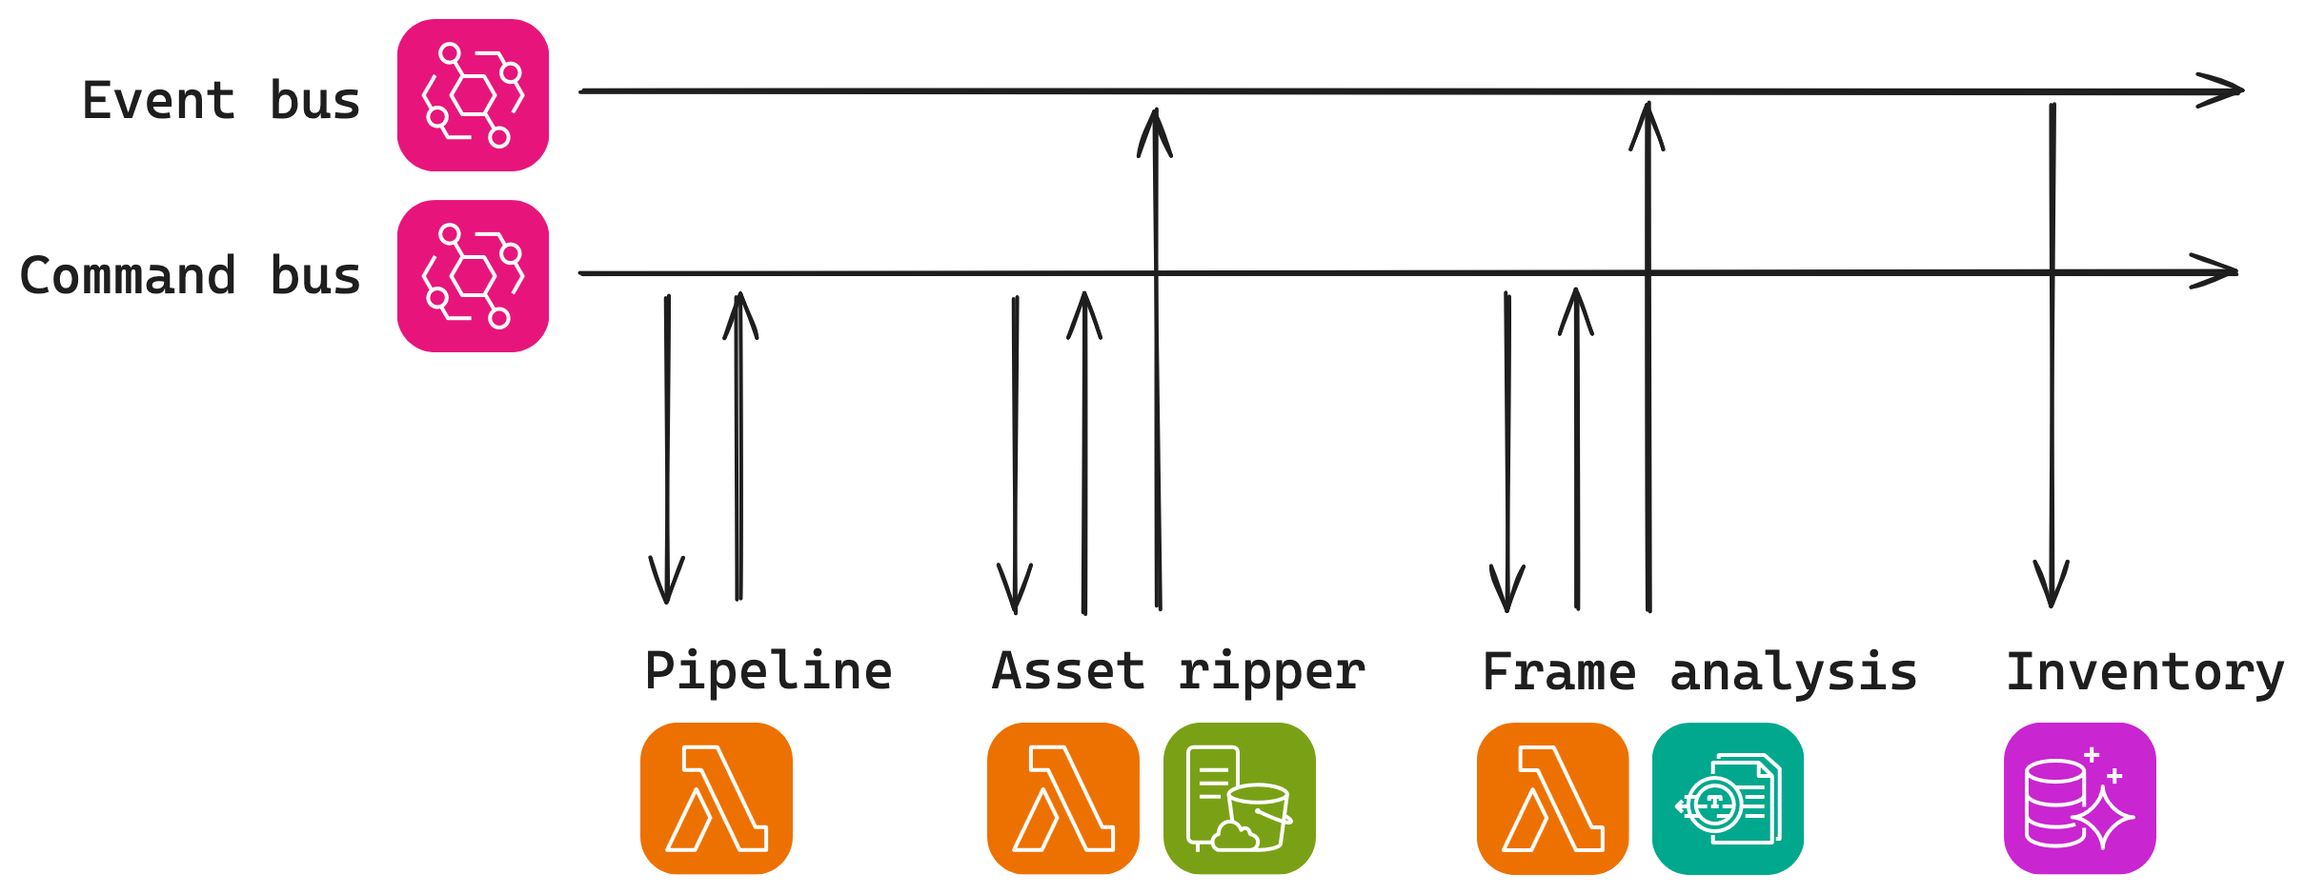
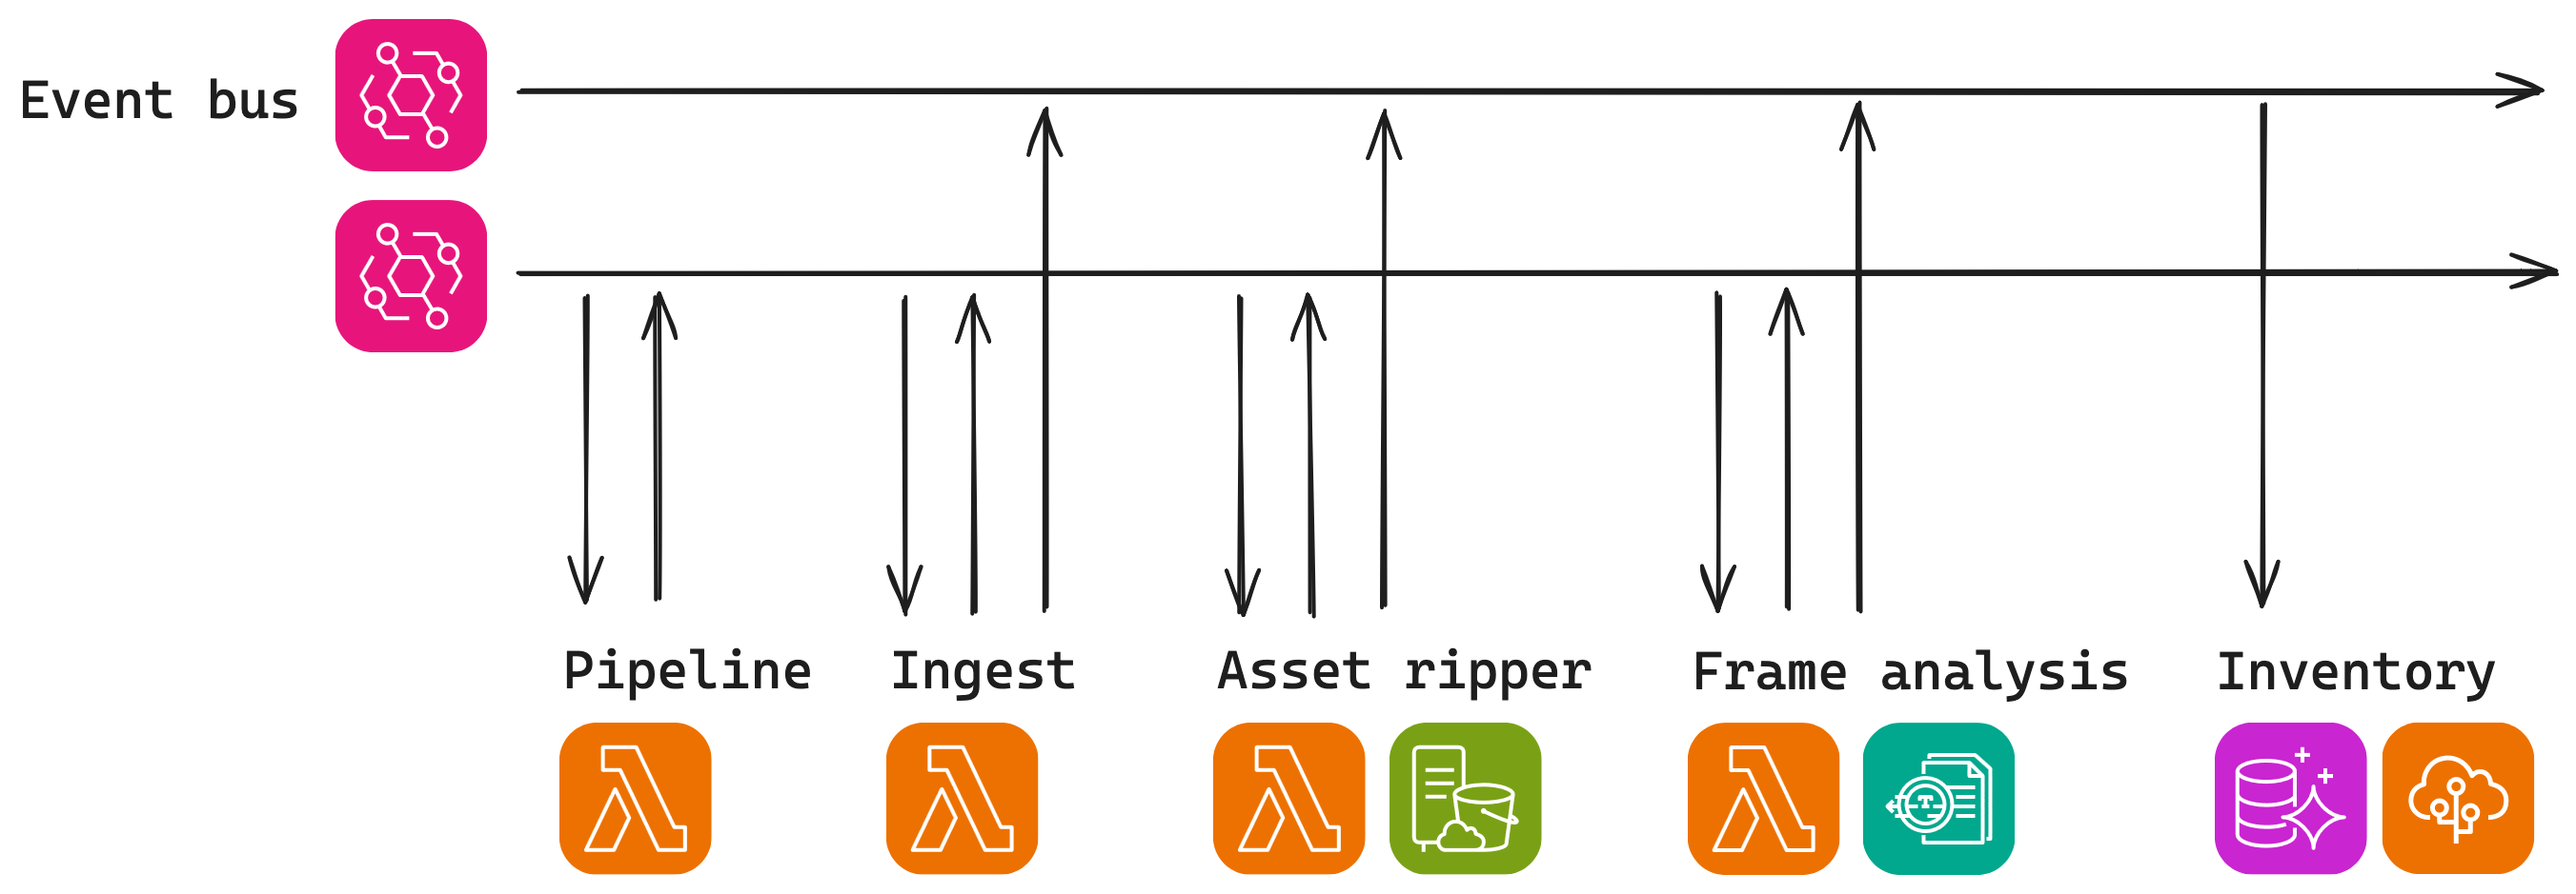
Get a working version of the API deployed to beanstalk

diff --git a/infra/lib/InventoryStack.ts b/infra/lib/InventoryStack.ts
@@ -2,12 +2,17 @@ import { Stack, StackProps, Tags } from "aws-cdk-lib";
 import { Construct } from "constructs";
 import * as dynamo from "aws-cdk-lib/aws-dynamodb";
 import { AttributeType, BillingMode, ProjectionType } from "aws-cdk-lib/aws-dynamodb";
+import * as bs from "aws-cdk-lib/aws-elasticbeanstalk";
 import { Attribute } from "aws-cdk-lib/aws-dynamodb/lib/shared";
 import * as path from "path";
 import { EventBusAware } from "./EventBusStack";
 import { createProjectionHandlerLambda } from "./utility/projection";
+import { DeploymentEnvironmentAware } from "./utility/deployment-environment";
+import * as iam from "aws-cdk-lib/aws-iam";
+import { AnyPrincipal } from "aws-cdk-lib/aws-iam";
+import { Asset } from "aws-cdk-lib/aws-s3-assets";
 
-type InventoryStackProps = StackProps & EventBusAware;
+type InventoryStackProps = StackProps & EventBusAware & DeploymentEnvironmentAware;
 
 export class InventoryStack extends Stack {
     private props: InventoryStackProps;
@@ -21,6 +26,7 @@ export class InventoryStack extends Stack {
 
         this.createDynamoTable();
         this.createProjectionHandlerLambda();
+        this.createApiEndpoint();
 
         Tags.of(this).add("ServiceName", "Inventory");
     }
@@ -57,6 +63,79 @@ export class InventoryStack extends Stack {
             partitionKey: this.stringAttribute("gsi2pk"),
             sortKey: this.stringAttribute("gsi2sk"),
         });
+    }
+
+    createApiEndpoint() {
+        const appName = "InventoryAppApi";
+
+        const api = new bs.CfnApplication(this, "inventory-app", {
+            applicationName: appName,
+        });
+
+        const sourceCode = new Asset(this, "inventory-src", {
+            path: this.resolveService("build/build.zip"),
+        });
+
+        const version = new bs.CfnApplicationVersion(this, "inventory-app-version", {
+            applicationName: api.applicationName || appName,
+            sourceBundle: {
+                s3Bucket: sourceCode.s3BucketName,
+                s3Key: sourceCode.s3ObjectKey,
+            },
+        });
+        version.addDependency(api);
+
+        const role = new iam.Role(this, `inventory-app-instance-profile-role`, {
+            assumedBy: new AnyPrincipal(),
+        });
+        role.addManagedPolicy(iam.ManagedPolicy.fromAwsManagedPolicyName("AWSElasticBeanstalkWebTier"));
+        role.addManagedPolicy(iam.ManagedPolicy.fromAwsManagedPolicyName("AmazonS3FullAccess"));
+
+        const instanceProfile = new iam.CfnInstanceProfile(this, `inventory-app-cfn-instance-profile`, {
+            instanceProfileName: `inventory-app-cfn-instance-profile`,
+            roles: [role.roleName],
+        });
+
+        const environment = new bs.CfnEnvironment(this, "inventory-app-environment", {
+            applicationName: api.applicationName || appName,
+            cnamePrefix: `tracking-poker-api-${this.props.deploymentEnvironment}`,
+            solutionStackName: "64bit Amazon Linux 2023 v6.1.2 running Node.js 20",
+            versionLabel: version.ref,
+            optionSettings: [
+                {
+                    namespace: "aws:autoscaling:launchconfiguration",
+                    optionName: "IamInstanceProfile",
+                    value: instanceProfile.instanceProfileName,
+                },
+                {
+                    // Required for beanstalk to be able to reach any other AWS services inside the EC2 instance.
+                    namespace: "aws:autoscaling:launchconfiguration",
+                    optionName: "DisableIMDSv1",
+                    value: "false",
+                },
+                {
+                    namespace: "aws:autoscaling:asg",
+                    optionName: "MinSize",
+                    value: "1",
+                },
+                {
+                    namespace: "aws:autoscaling:asg",
+                    optionName: "MaxSize",
+                    value: "1",
+                },
+                {
+                    namespace: "aws:ec2:instances",
+                    optionName: "InstanceTypes",
+                    value: "t2.micro",
+                },
+                {
+                    namespace: "aws:elasticbeanstalk:application",
+                    optionName: "Application Healthcheck URL",
+                    value: "/healthz",
+                },
+            ],
+        });
+        environment.addDependency(instanceProfile);
     }
 
     stringAttribute(value: string): Attribute {

diff --git a/inventory/src/index.ts b/inventory/src/index.ts
@@ -18,6 +18,10 @@ app.use("/shows", shows);
 app.use("/players", players);
 app.use("/leaderboards", leaderboards);
 
-app.listen(process.env.API_SERVER_PORT, () => {
+app.use("/healthz", (req, res, next) => {
+    res.send({ status: "healthy" });
+});
+
+app.listen(process.env.PORT || 80, () => {
     console.log(`App started.`);
 });

diff --git a/README.md b/README.md
@@ -18,9 +18,21 @@ This project deploys a number of microservices to coordinate the collection of t
 ![diagram](./docs/img/arch-diagram.png)
 
 -   _[Pipeline](./pipeline/src/index.ts)_ - Routes events between services.
+-   _[Ingest](./ingest/src/)_ - Queries for new video assets.
 -   _[Asset Ripper](./asset-ripper/src/)_ - Downloads and slices streams into individual frames for analysis.
 -   _[Frame Analysis](./frame-analysis/src)_ - Detects frames of interest and extracts statistics.
 -   _[Inventory](./inventory/src)_ - Creates a useful read model for the statistics.
+
+### Ingest
+
+The ingest API is responsible for querying and dispatching new video assets into the pipeline. The service maintains
+a [minimal read model](./ingest/src/projection/handler.ts) to keep track of videos that have already been discovered.
+
+![ingest](./docs/img/ingest-buffer.png)
+
+To ensure downstream services have access to the full range of metadata and encoded versions of the asset
+a [fixed duration of time](./ingest/src/youtube/fetchRecentVideoIds.ts) after publishing must pass, before the asset is
+considered discoverable.
 
 ### Asset ripper
 
@@ -115,3 +127,20 @@ For the volume of data produced by a single operator, each partition could grow 
 impacting performance. Some of the most interesting insights come from data points spanning the whole dataset,
 partitioning and querying aggregated statistics is not an infinitely scalable solution, but could be replaced with
 running counts and averages.
+
+## Infrastructure
+
+This project has been written to be deployed and integrate with AWS services. Outside the AWS services consumed by
+individual services, the whole package utilises and depends on a number of features in the AWS ecosystem.
+
+### Infrastructure-as-code
+
+### Observability
+
+CloudWatch and X-Ray provide the foundation for logging and traces respectively. The "Trace Map" feature provides
+a useful visualisation for tracking down the root cause of errors as commands and events propagate through the services.
+
+In the following example, a high error rate from a single service was identified as the source of a bug for processing
+new inbound video assets:
+
+![xray trace](./docs/img/xray.png)
